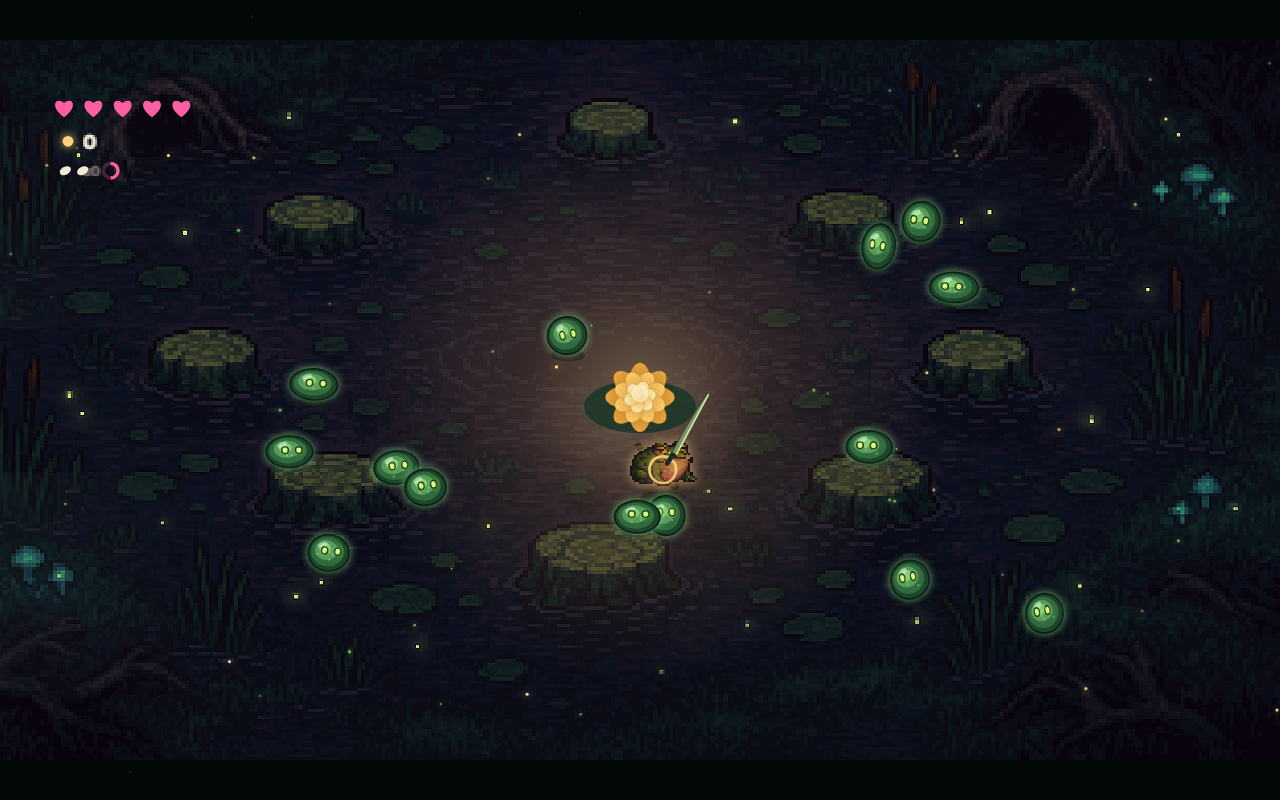
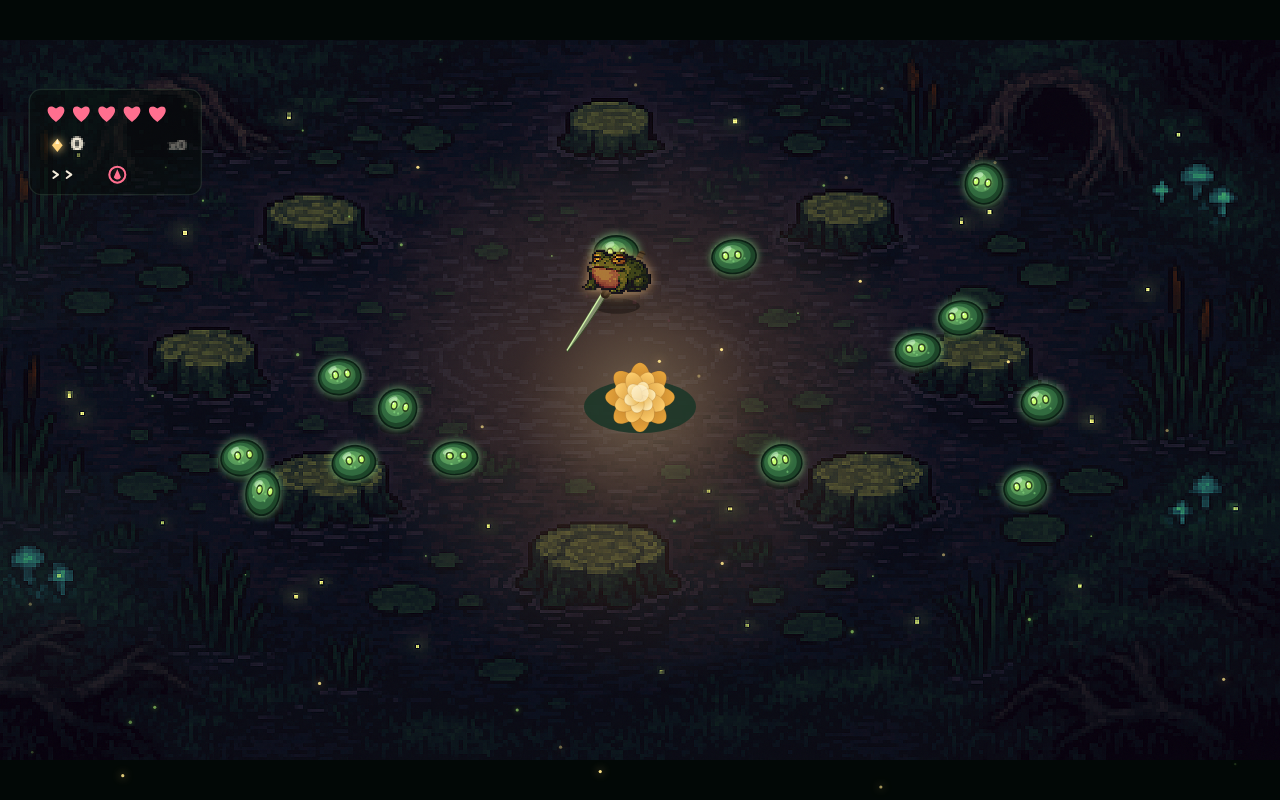
R3: redesign HUD into a clean framed cluster (was debug/placeholder to 5/6 critics)
Unifying rounded backing panel; aligned coral hearts (bible accent); faceted gold
gem + count for essence w/ right-aligned kill tally; ability row with '>>' dash
chevrons + a coral tongue teardrop and radial cooldown. Reads as designed UI, not
floating debug. Typecheck clean, headless QA no errors.

diff --git a/src/render/render.ts b/src/render/render.ts
@@ -918,47 +918,63 @@ function drawHud(ctx: CanvasRenderingContext2D, w: World, cw: number, ch: number
   ctx.translate(ox, oy);
   ctx.scale(scale, scale);
 
-  // hearts (pink), 20 HP each
+  // --- framed, aligned HUD cluster (critics R2: top-left read as debug/placeholder) ---
+  const X = 84;                                       // left margin for the stack
+  // soft unifying backing panel so it reads as designed UI, not floating debug
+  ctx.fillStyle = 'rgba(6,14,10,0.5)';
+  roundRect(ctx, X - 40, 74, 258, 158, 18); ctx.fill();
+  ctx.strokeStyle = 'rgba(150,200,150,0.14)'; ctx.lineWidth = 2;
+  roundRect(ctx, X - 40, 74, 258, 158, 18); ctx.stroke();
+
+  // hearts row (coral — the bible accent), 20 HP each, aligned
   const hearts = Math.ceil(f.maxHp / 20);
   for (let i = 0; i < hearts; i++) {
-    const hx = 96 + i * 44, hy = 100;
+    const hx = X + i * 38, hy = 108;
     const fill = Math.max(0, Math.min(1, (f.hp - i * 20) / 20));
-    drawHeart(ctx, hx, hy, 16, 'rgba(20,16,20,0.75)');
+    drawHeart(ctx, hx, hy, 15, 'rgba(18,14,18,0.8)');
     if (fill > 0) {
       ctx.save();
       ctx.beginPath();
-      ctx.rect(hx - 18, hy - 16 + (1 - fill) * 34, 36, fill * 34);
+      ctx.rect(hx - 17, hy - 15 + (1 - fill) * 32, 34, fill * 32);
       ctx.clip();
-      drawHeart(ctx, hx, hy, 16, C.pink);
+      drawHeart(ctx, hx, hy, 15, '#ff6f8f');
       ctx.restore();
     }
   }
-  // essence count
+
+  // essence row: a faceted gold gem + count
+  const gx = X + 2, gy = 158;
+  ctx.save();
+  ctx.shadowColor = C.gold; ctx.shadowBlur = 9;
   ctx.fillStyle = C.gold;
-  ctx.shadowColor = C.gold; ctx.shadowBlur = 10;
-  ctx.beginPath(); ctx.arc(102, 152, 8, 0, Math.PI * 2); ctx.fill();
+  ctx.beginPath(); ctx.moveTo(gx, gy - 10); ctx.lineTo(gx + 8, gy); ctx.lineTo(gx, gy + 10); ctx.lineTo(gx - 8, gy); ctx.closePath(); ctx.fill();
   ctx.shadowBlur = 0;
-  drawPixelText(ctx, String(f.essence), 122, 154, 30, C.cream, 'left');
+  ctx.fillStyle = 'rgba(255,247,220,0.85)';           // gem highlight facet
+  ctx.beginPath(); ctx.moveTo(gx, gy - 10); ctx.lineTo(gx + 3, gy - 2); ctx.lineTo(gx - 3, gy - 2); ctx.closePath(); ctx.fill();
+  ctx.restore();
+  drawPixelText(ctx, String(f.essence), X + 20, gy, 28, C.cream, 'left');
+  // kill tally, right-aligned in the panel (small, dim)
+  drawPixelText(ctx, `x${w.kills}`, X + 200, gy, 20, 'rgba(242,234,216,0.42)', 'right');
 
-  // dash pips
+  // ability row: dash chevrons + tongue drop w/ cooldown
+  const ay = 202;
   for (let i = 0; i < DASH_CHARGES; i++) {
-    ctx.fillStyle = i < f.dashCharges ? C.cream : 'rgba(242,234,216,0.18)';
-    ctx.beginPath();
-    ctx.ellipse(98 + i * 26, 196, 9, 6, -0.5, 0, Math.PI * 2);
-    ctx.fill();
+    const px = X + i * 20;
+    ctx.strokeStyle = i < f.dashCharges ? C.cream : 'rgba(242,234,216,0.2)';
+    ctx.lineWidth = 3; ctx.lineCap = 'round'; ctx.lineJoin = 'round';
+    ctx.beginPath(); ctx.moveTo(px - 4, ay - 5); ctx.lineTo(px + 3, ay); ctx.lineTo(px - 4, ay + 5); ctx.stroke();  // ">" dash chevron
   }
-  // tongue cooldown radial
-  const cd = Math.max(0, f.tCd) / TONGUE.cooldown;
-  ctx.strokeStyle = 'rgba(255,95,162,0.25)';
-  ctx.lineWidth = 5;
-  ctx.beginPath(); ctx.arc(166, 196, 11, 0, Math.PI * 2); ctx.stroke();
+  // tongue drop icon + radial cooldown
+  const tx = X + 92, cd = Math.max(0, f.tCd) / TONGUE.cooldown;
+  const tCol = cd < 1 ? '#ff6f8f' : 'rgba(255,111,143,0.35)';
+  ctx.fillStyle = tCol;
+  ctx.beginPath(); ctx.arc(tx, ay + 1, 6, 0.15 * Math.PI, 0.85 * Math.PI, false); ctx.lineTo(tx, ay - 8); ctx.closePath(); ctx.fill();  // teardrop
+  ctx.strokeStyle = 'rgba(255,111,143,0.22)'; ctx.lineWidth = 3;
+  ctx.beginPath(); ctx.arc(tx, ay, 12, 0, Math.PI * 2); ctx.stroke();
   if (cd < 1) {
-    ctx.strokeStyle = C.pink;
-    ctx.beginPath(); ctx.arc(166, 196, 11, -Math.PI / 2, -Math.PI / 2 + (1 - cd) * Math.PI * 2); ctx.stroke();
+    ctx.strokeStyle = '#ff6f8f';
+    ctx.beginPath(); ctx.arc(tx, ay, 12, -Math.PI / 2, -Math.PI / 2 + (1 - cd) * Math.PI * 2); ctx.stroke();
   }
-
-  // kill tally: subtle notches under essence (the pond keeps score)
-  drawPixelText(ctx, `x${w.kills}`, 122, 196, 20, 'rgba(242,234,216,0.4)', 'left');
 
   if (paused) {
     overlay(ctx, 'rgba(2,8,6,0.72)');
